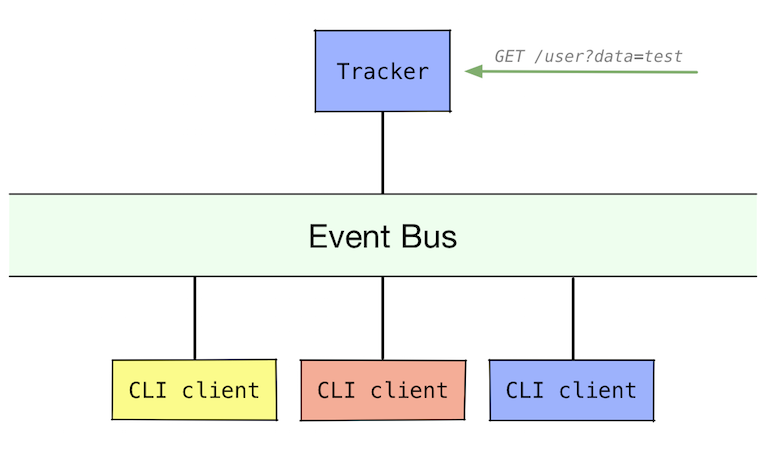
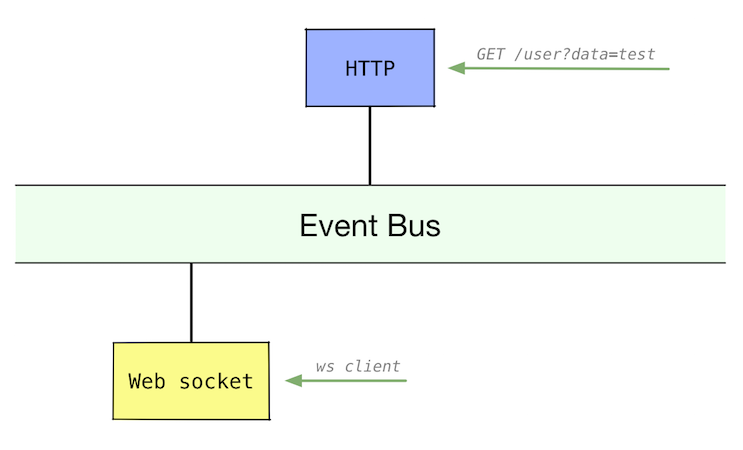
* updated system diagram * support for aggregation (accountId)

Changed region(s): [[0.0, 0.4667, 0.9906, 0.9644], [0.4024, 0.0622, 0.8977, 0.28], [0.0, 0.4044, 0.9906, 0.4356]]

diff --git a/ws-client/html5client.html b/ws-client/html5client.html
@@ -36,7 +36,7 @@
     <h1>=Realtimer=</h1>
 </div>
 <div id="connect_header">
-    <input type="text" id="account_id" title="id" value="maslick">
+    <input type="text" id="account_id" title="id">
     <button id="btn_connect">Connect</button>
     <button id="btn_disconnect">Disconnect</button>
     <button id="btn_clear">Clear</button>
@@ -46,27 +46,32 @@
 </body>
 
 <script>
-    var ws_address = "ws://localhost:8081/";
+    var ws_address = "ws://localhost:8081/ws";
     var wss = null;
     document.getElementById("btn_disconnect").hidden = true;
     document.getElementById("btn_connect").hidden = false;
-    document.getElementById("account_id").readOnly = false;
 
 
     document.getElementById("btn_connect").onclick = function (e) {
         document.getElementById("btn_connect").hidden = true;
         document.getElementById("btn_disconnect").hidden = false;
-        document.getElementById("account_id").readOnly = true;
         var account_id = document.getElementById("account_id").value;
 
-        wss = new WebSocket(ws_address + account_id);
+        wss = new WebSocket(ws_address);
 
         wss.onopen = function (e) { console.log("Connected."); };
 
         wss.onmessage = function (message) {
             console.log(message.data);
             el = document.getElementById("messages");
-            el.textContent = message.data + el.textContent;
+            json = JSON.parse(message.data);
+
+            if (account_id === "" || account_id == null)
+                el.textContent = message.data + el.textContent;
+            else {
+                if (json.accountId === account_id)
+                    el.textContent = message.data + el.textContent;
+            }
         };
 
         wss.onclose = function (e) {
@@ -77,7 +82,6 @@
             window.alert("Error connecting to ws server!");
             document.getElementById("btn_disconnect").hidden = true;
             document.getElementById("btn_connect").hidden = false;
-            document.getElementById("account_id").readOnly = false;
             wss.close();
             wss = null;
         };
@@ -86,7 +90,6 @@
     document.getElementById("btn_disconnect").onclick = function (e) {
         document.getElementById("btn_disconnect").hidden = true;
         document.getElementById("btn_connect").hidden = false;
-        document.getElementById("account_id").readOnly = false;
         wss.close();
         wss = null;
     };

diff --git a/tracker/src/main/java/io/maslick/sandbox/realtimer/tracker/Tracker.kt b/tracker/src/main/java/io/maslick/sandbox/realtimer/tracker/Tracker.kt
@@ -72,7 +72,7 @@ class WebsocketVert : AbstractVerticle() {
             println("new ws socket connected: ${wsServer.path()}")
 
             vertx.eventBus().consumer<Event>("/propagator") { message ->
-                if (message.body().accountId == wsServer.path().split("/")[1]) {
+                if ("/ws" == wsServer.path()) {
                     wsServer.writeFinalTextFrame(Json.encode(message.body()))
                     message.reply("ok")
                 }
@@ -81,7 +81,9 @@ class WebsocketVert : AbstractVerticle() {
             wsServer.endHandler {
                 println("ws socket closed: ${wsServer.path()}")
             }
-        }.listen(8081)
+        }.listen(8081) {
+            println("web socket server started: ${it.result().actualPort()}")
+        }
     }
 }
 

diff --git a/ws-client/src/main/java/io/maslick/sandbox/realtimer/wsclient/WebsocketClient.kt b/ws-client/src/main/java/io/maslick/sandbox/realtimer/wsclient/WebsocketClient.kt
@@ -12,7 +12,7 @@ import java.util.*
 
 
 fun main(args: Array<String>) {
-    val addr = System.getProperty("address", "ws://localhost:8081")
+    val addr = System.getProperty("address", "ws://localhost:8081/ws")
     val userId = System.getProperty("userId", null)
 
     if (userId == null) {
@@ -20,7 +20,8 @@ fun main(args: Array<String>) {
         return
     }
 
-    wsObservable("$addr/$userId")
+    wsObservable(addr)
+            .filter { it.accountId == userId }
             .subscribe {
                 println("${it.timestamp.formatDate()} message from ${it.accountId} : ${it.data}")
             }

diff --git a/tracker/src/test/java/io/maslick/sandbox/realtimer/tracker/DummyTest.kt b/tracker/src/test/java/io/maslick/sandbox/realtimer/tracker/DummyTest.kt
@@ -33,7 +33,7 @@ class DummyTest {
     fun testWebSocketClient(context: TestContext) {
         val async = context.async()
 
-        Vertx.vertx().createHttpClient().websocket(8081, "localhost", "/maslick") { response ->
+        Vertx.vertx().createHttpClient().websocket(8081, "localhost", "/ws") { response ->
             println("connected: ${response.remoteAddress()}")
             response.textMessageHandler { body ->
                 println("message: $body")

diff --git a/tracker/src/test/java/io/maslick/sandbox/realtimer/tracker/IntegrationTest.kt b/tracker/src/test/java/io/maslick/sandbox/realtimer/tracker/IntegrationTest.kt
@@ -69,7 +69,7 @@ class IntegrationTest {
         val async = context.async()
 
         // create ws client
-        vertx.createHttpClient().websocket(wsPort, "localhost", "/fakeUser") { response ->
+        vertx.createHttpClient().websocket(wsPort, "localhost", "/ws") { response ->
             println("connected: ${response.remoteAddress()}")
 
             response.textMessageHandler { body ->
